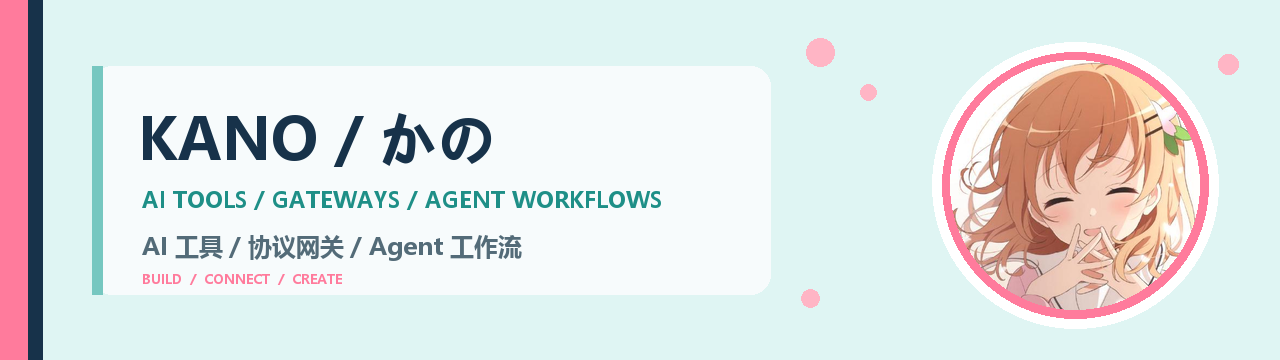
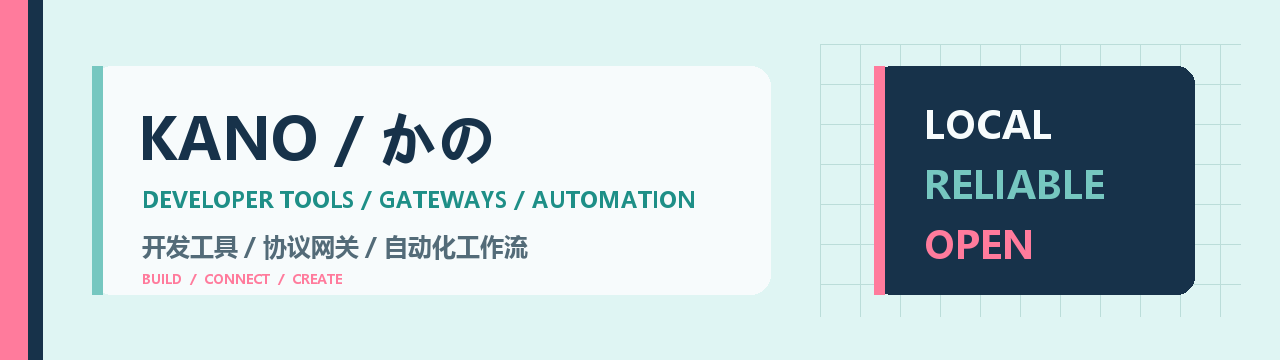
refactor: remove AI and anime profile content

Changed region(s): [[0.625, 0.0917, 0.9688, 0.9167], [0.0938, 0.6417, 0.4375, 0.7333], [0.0938, 0.5194, 0.5625, 0.5806]]

diff --git a/scripts/render_banner.py b/scripts/render_banner.py
@@ -1,6 +1,6 @@
 from pathlib import Path
 
-from PIL import Image, ImageDraw, ImageFont, ImageOps
+from PIL import Image, ImageDraw, ImageFont
 
 
 ROOT = Path(__file__).resolve().parents[1]
@@ -23,32 +23,30 @@ draw.rectangle((28, 0, 42, SIZE[1]), fill="#17324A")
 draw.rounded_rectangle((92, 66, 770, 294), radius=20, fill="#F7FBFC")
 draw.rectangle((92, 66, 102, 294), fill="#76C7C0")
 
-for x, y, radius in ((820, 52, 14), (868, 92, 8), (810, 298, 9), (1228, 64, 10)):
-    draw.ellipse(
-        (x - radius, y - radius, x + radius, y + radius), fill="#FFB5C5"
-    )
+for x in range(820, 1240, 40):
+    draw.line((x, 44, x, 316), fill="#BBDDD9", width=1)
+for y in range(44, 317, 40):
+    draw.line((820, y, 1240, y), fill="#BBDDD9", width=1)
 
 draw.text((138, 98), "KANO / かの", font=load_font(58), fill="#17324A")
 draw.text(
     (142, 184),
-    "AI TOOLS / GATEWAYS / AGENT WORKFLOWS",
+    "DEVELOPER TOOLS / GATEWAYS / AUTOMATION",
     font=load_font(22),
     fill="#1E8F87",
 )
 draw.text(
     (142, 229),
-    "AI 工具 / 协议网关 / Agent 工作流",
+    "开发工具 / 协议网关 / 自动化工作流",
     font=load_font(24),
     fill="#536B78",
 )
 
-avatar = Image.open(ASSETS / "avatar.png").convert("RGB")
-avatar = ImageOps.fit(avatar, (250, 250), method=Image.Resampling.LANCZOS)
-mask = Image.new("L", avatar.size, 0)
-ImageDraw.Draw(mask).ellipse((0, 0, 249, 249), fill=255)
-draw.ellipse((932, 42, 1218, 328), fill="#FFFFFF")
-draw.ellipse((942, 52, 1208, 318), fill="#FF7B9C")
-canvas.paste(avatar, (950, 60), mask)
+draw.rounded_rectangle((874, 66, 1194, 294), radius=18, fill="#17324A")
+draw.rectangle((874, 66, 884, 294), fill="#FF7B9C")
+draw.text((924, 98), "LOCAL", font=load_font(38), fill="#F7FBFC")
+draw.text((924, 158), "RELIABLE", font=load_font(38), fill="#76C7C0")
+draw.text((924, 218), "OPEN", font=load_font(38), fill="#FF7B9C")
 
 draw.text(
     (142, 270),

diff --git a/README.md b/README.md
@@ -1,12 +1,12 @@
 <p align="center">
-  <img src="assets/profile-banner.png" alt="KANO - AI tools, gateways and anime-inspired experiments" width="100%">
+  <img src="assets/profile-banner.png" alt="KANO - developer tools, gateways and local workflows" width="100%">
 </p>
 
 ## Hi, I'm KANO / 你好，我是 KANO
 
-I build practical AI gateways and agent tools, then give them a little anime soul.
+I build practical developer tools and protocol gateways with a focus on reliable local workflows.
 
-我专注于实用的 AI 网关与 Agent 工具，也喜欢为它们加入一点二次元灵魂。
+我专注于实用的开发工具与协议网关，并持续打磨可靠的本地工作流。
 
 ### Stack / 技术栈
 
@@ -23,15 +23,15 @@ I build practical AI gateways and agent tools, then give them a little anime sou
   <tr>
     <td colspan="2">
       <h3><a href="https://github.com/KanoNoUta/thief-neko">Thief Neko</a></h3>
-      <p>A local Catpaw gateway and desktop controller that connects Claude Code and Codex to GLM models.</p>
-      <p>连接 Claude Code、Codex 与 GLM 模型的本地 Catpaw 网关及桌面控制器。</p>
+      <p>A local protocol gateway and desktop controller for connecting development clients to custom services.</p>
+      <p>用于连接开发客户端与自定义服务的本地协议网关和桌面控制器。</p>
     </td>
   </tr>
   <tr>
     <td width="50%">
-      <h3><a href="https://github.com/KanoNoUta/Gensokyo">Gensokyo</a></h3>
-      <p>An anime-inspired theme full of Gensokyo.</p>
-      <p>一款充满幻想乡气息的二次元主题。</p>
+      <h3><a href="https://github.com/KanoNoUta/KanoACR">KanoACR</a></h3>
+      <p>Release repository for KANO PromeRotation ACR.</p>
+      <p>KANO PromeRotation ACR 的版本发布仓库。</p>
     </td>
     <td width="50%">
       <h3><a href="https://github.com/KanoNoUta/kanonouta-blog">Kano no Uta Blog</a></h3>
@@ -43,12 +43,12 @@ I build practical AI gateways and agent tools, then give them a little anime sou
 
 ## Current focus / 当前方向
 
-`Protocol adapters` · `Agent tool loops` · `Local AI workflows`
+`Protocol adapters` · `Tool integrations` · `Local workflows`
 
-Building reliable protocol adapters and tool loops for coding agents.
+Building reliable protocol adapters and tool integrations for developer workflows.
 
-正在打磨更可靠的协议适配、工具调用循环与本地 AI 工作流。
+正在打磨更可靠的协议适配、工具集成与本地开发工作流。
 
 <p align="center">
-  <sub>Code with utility. Design with personality.<br>让工具真正有用，也让它保留一点自己的性格。</sub>
+  <sub>Code with utility. Design with clarity.<br>让工具真正有用，也让设计保持清晰。</sub>
 </p>
